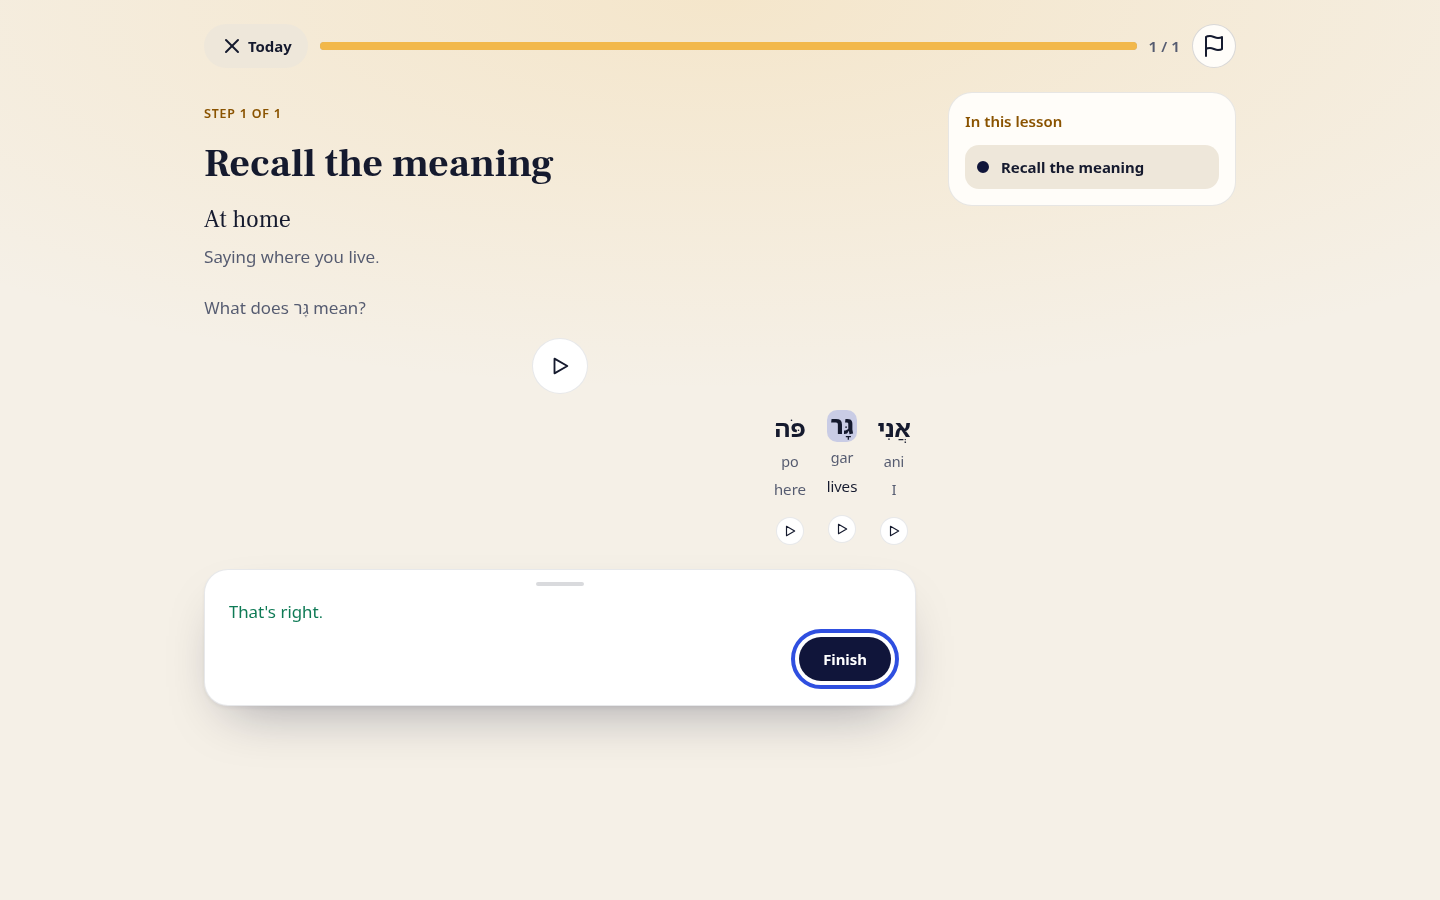
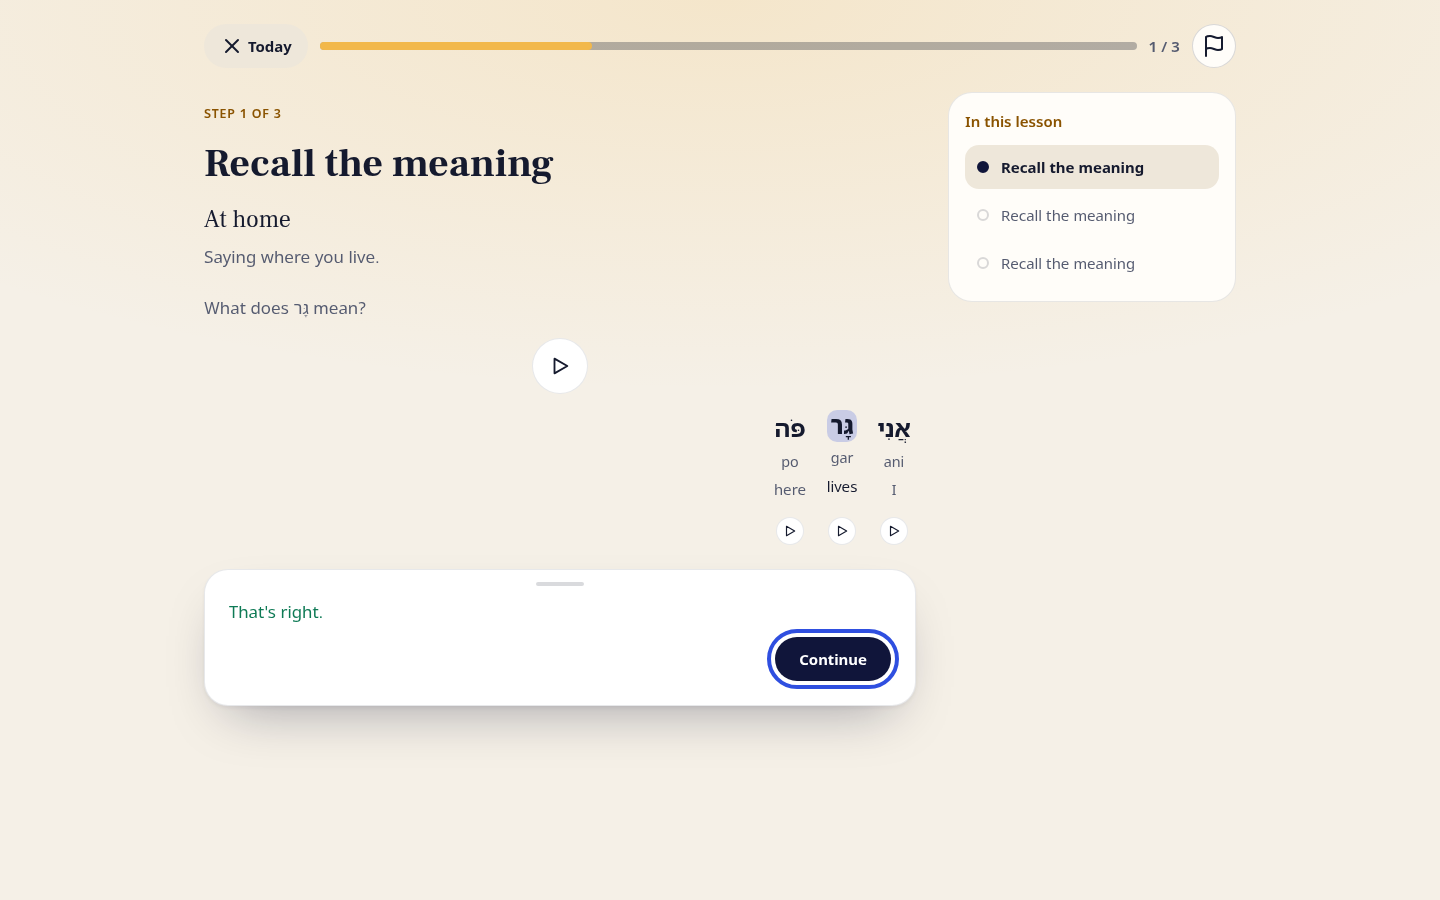
Keep helper glosses out of the distractors and align the word orbs.
A multi-word recall and a cloze were offering the line's other words as choices, so the answer could be found by elimination. Those lexemes are now dropped by id and by gloss, and the buttons fall back to other unit words and earlier lexicon words. The word orbs share one baseline.

Changed region(s): [[0.6562, 0.2178, 0.875, 0.3422], [0.4062, 0.0311, 0.7812, 0.0622], [0.5312, 0.6844, 0.5938, 0.7778]]

diff --git a/internal/web/static/css/base.css b/internal/web/static/css/base.css
@@ -1365,6 +1365,11 @@ mark.target .wb__he {
   align-items: flex-start;
   gap: var(--space-2);
 }
+/* The tested word's slot is shorter than a neighbour's transliteration plus
+   gloss, so a flex-start row lifts its orb. Stretch the line and pin each
+   clip to the end of its column. Every orb then shares one baseline. */
+.activity .word-blocks { align-items: stretch; }
+.activity-word > .clip { margin-block-start: auto; }
 .word-block {
   display: inline-flex;
   flex-direction: column;

diff --git a/internal/web/lesson_test.go b/internal/web/lesson_test.go
@@ -491,8 +491,9 @@ func TestLessonPromptDoesNotLeak(t *testing.T) {
 
 // A recall of several words still asks for one word: the first new word in
 // the line. The question names that word, the other words are shown with
-// their sound and meaning, and the buttons are word glosses. A following
-// recall of that word alone keeps the single-word question.
+// their sound and meaning, and the buttons are word glosses of words that
+// are not already on screen. A following recall of that word alone keeps
+// the single-word question.
 func TestMultiTokenRecallNamesTheTarget(t *testing.T) {
 	const (
 		ani = "אֲנִי"
@@ -597,9 +598,15 @@ func TestMultiTokenRecallNamesTheTarget(t *testing.T) {
 	if !strings.Contains(head, gar) {
 		t.Fatal("the tested word's Hebrew is hidden")
 	}
-	for _, gloss := range []string{">I<", ">lives<", ">here<"} {
-		if !strings.Contains(choices, gloss) {
-			t.Errorf("choice missing word gloss %s", gloss)
+	if !strings.Contains(choices, ">lives<") {
+		t.Errorf("choice missing the target gloss")
+	}
+	// The other words' glosses are on screen as help. Offering them as
+	// buttons would give the answer away. This unit has no other words,
+	// so the only button left is the target.
+	for _, gloss := range []string{">I<", ">here<"} {
+		if strings.Contains(choices, gloss) {
+			t.Errorf("choice equals a visible helper gloss %s", gloss)
 		}
 	}
 	if strings.Contains(choices, "I live here") || strings.Contains(choices, `value="`+gar+`"`) || strings.Contains(choices, `value="`+line+`"`) {
@@ -659,6 +666,163 @@ func TestMultiTokenRecallNamesTheTarget(t *testing.T) {
 	if strings.Contains(alone, ani) || strings.Contains(alone, po) {
 		t.Fatalf("single-word recall shows the rest of the line:\n%s", alone)
 	}
+}
+
+// A multi-word recall and a cloze both show the line's other words as help.
+// Those glosses, and a different lexeme with the same gloss, are not choices.
+// When the line used up the unit, the remaining buttons are other unit words
+// and earlier lexicon words.
+func TestChoicesSkipVisibleHelperGlosses(t *testing.T) {
+	const (
+		ani    = "אֲנִי"
+		anokhi = "אָנֹכִי"
+		gar    = "גָּר"
+		po     = "פֹּה"
+		ken    = "כֵּן"
+		sham   = "שָׁם"
+		mayim  = "מַיִם"
+	)
+	for _, typ := range []string{units.ActivityRecall, units.ActivityCloze} {
+		t.Run(typ, func(t *testing.T) {
+			now := time.Date(2026, 10, 18, 12, 0, 0, 0, time.UTC)
+			ctx := context.Background()
+			store, err := db.Open(ctx, filepath.Join(t.TempDir(), "hebrew.sqlite"), fixedClock(now))
+			if err != nil {
+				t.Fatal(err)
+			}
+			t.Cleanup(func() { _ = store.Close() })
+			brian, err := store.CreateUser(ctx, "brian@example.com", "sub-brian", auth.RoleLearner)
+			if err != nil {
+				t.Fatal(err)
+			}
+			sp := func(s string) *string { return &s }
+			saved, _, err := store.UpsertLexemes(ctx, []lexicon.Input{
+				{TextNFC: ani, Gloss: "I", Translit: sp("ani"), POS: sp("pron")},
+				{TextNFC: anokhi, Gloss: "I", Translit: sp("anokhi"), POS: sp("pron")},
+				{TextNFC: gar, Gloss: "lives", Translit: sp("gar"), POS: sp("verb")},
+				{TextNFC: po, Gloss: "here", Translit: sp("po"), POS: sp("adv")},
+				{TextNFC: ken, Gloss: "yes", Translit: sp("ken"), POS: sp("adv")},
+				{TextNFC: sham, Gloss: "there", Translit: sp("sham"), POS: sp("adv")},
+				{TextNFC: mayim, Gloss: "water", Translit: sp("mayim"), POS: sp("noun")},
+			})
+			if err != nil {
+				t.Fatal(err)
+			}
+			ids := map[string]int64{}
+			for _, row := range saved {
+				ids[row.TextNFC] = row.ID
+			}
+			glossByID := map[string]string{}
+			for text, id := range ids {
+				switch text {
+				case ani, anokhi:
+					glossByID[itoa(id)] = "I"
+				case gar:
+					glossByID[itoa(id)] = "lives"
+				case po:
+					glossByID[itoa(id)] = "here"
+				case ken:
+					glossByID[itoa(id)] = "yes"
+				case sham:
+					glossByID[itoa(id)] = "there"
+				case mayim:
+					glossByID[itoa(id)] = "water"
+				}
+			}
+			line := ani + " " + gar + " " + po
+			earlierID := putLesson(t, store, nil, units.Unit{
+				Title: "Earlier", Position: 0, NewWords: []string{sham, mayim},
+				Lessons: []units.Lesson{{Kind: units.KindLesson, Activities: []units.Activity{
+					{Type: units.ActivityRecall, Text: sham + " " + mayim},
+				}}},
+			}, "shared")
+			// anokhi shares the helper gloss "I" but is not in the line.
+			// ken is the only other word this unit can offer. One more
+			// button has to come from the earlier lexicon.
+			unitID := putLesson(t, store, nil, units.Unit{
+				Title: "At home", Situation: "Saying where you live.", Position: 1,
+				NewWords: []string{gar},
+				Lessons: []units.Lesson{{Kind: units.KindLesson, Activities: []units.Activity{
+					{Type: typ, Text: line},
+					{Type: units.ActivityRecall, Text: anokhi},
+					{Type: units.ActivityRecall, Text: ken},
+				}}},
+			}, "shared")
+			publish(t, store, earlierID, unitID)
+			when := db.FormatTime(now)
+			if _, err := store.ExecContext(ctx, `
+				INSERT INTO lesson_runs (user_id, unit_id, lesson_ix, started_at, finished_at, score)
+				VALUES (?, ?, 0, ?, ?, 1)`, brian.ID, earlierID, when, when); err != nil {
+				t.Fatal(err)
+			}
+
+			svc, err := auth.New(auth.Config{
+				PublicOrigin: "https://learn.example", Clock: fixedClock(now), Store: store,
+				AllowedEmails: []string{"brian@example.com"},
+			})
+			if err != nil {
+				t.Fatal(err)
+			}
+			h := NewOptions(nil, svc, Options{Store: store})
+			cookie := mintSession(t, store, brian.ID, "brian-csrf", now.Add(time.Hour))
+			body := getAuthed(t, h, cookie, "/lesson/"+itoa(unitID)+"/0")
+			ask := activityHTML(t, body)
+			head, choiceHTML, ok := strings.Cut(ask, `class="choices"`)
+			if !ok {
+				t.Fatalf("missing choices:\n%s", ask)
+			}
+			for _, help := range []string{ani, po} {
+				if !strings.Contains(head, help) {
+					t.Errorf("helper word %s is not on screen", help)
+				}
+			}
+			if typ == units.ActivityRecall {
+				for _, gloss := range []string{">I<", ">here<"} {
+					if !strings.Contains(head, gloss) {
+						t.Errorf("helper gloss %s is not visible", gloss)
+					}
+				}
+			}
+			helperGloss := map[string]bool{"i": true, "here": true}
+			for _, gloss := range []string{">I<", ">here<"} {
+				if strings.Contains(choiceHTML, gloss) {
+					t.Errorf("choice equals a visible helper gloss %s\n%s", gloss, choiceHTML)
+				}
+			}
+			got := choiceValues(t, ask)
+			if len(got) != 3 {
+				t.Fatalf("buttons = %d, want 3 (target, unit fallback, earlier fallback): %v\n%s", len(got), got, choiceHTML)
+			}
+			fallback := false
+			for _, id := range got {
+				gloss := glossByID[id]
+				if helperGloss[glossKey(gloss)] {
+					t.Errorf("choice %s gloss %q equals a visible helper gloss", id, gloss)
+				}
+				if id == itoa(ids[ani]) || id == itoa(ids[po]) || id == itoa(ids[anokhi]) {
+					t.Errorf("choice is a line word or the same gloss: %s %s", id, gloss)
+				}
+				if id == itoa(ids[sham]) || id == itoa(ids[mayim]) {
+					fallback = true
+				}
+			}
+			if !slicesContains(got, itoa(ids[gar])) || !slicesContains(got, itoa(ids[ken])) {
+				t.Fatalf("target or unit fallback missing: %v", got)
+			}
+			if !fallback {
+				t.Fatalf("earlier lexicon was not used to fill the buttons: %v", got)
+			}
+		})
+	}
+}
+
+func slicesContains(items []string, want string) bool {
+	for _, item := range items {
+		if item == want {
+			return true
+		}
+	}
+	return false
 }
 
 func TestClipScript(t *testing.T) {

diff --git a/internal/web/lesson.go b/internal/web/lesson.go
@@ -463,7 +463,7 @@ func (p player) step(page views.Page, lesson db.CourseLesson, run db.PlayerRun, 
 		Step:     run.ActivityIx,
 		Attempt:  0, // lesson_runs has no attempt counter
 		TargetID: target.ID,
-	}, hebrew, act.Type == units.ActivityCloze)
+	}, hebrew, act.Type == units.ActivityCloze, lineMateExclude(act, lex, target))
 	activity.Asking = len(activity.Choices) > 0
 	if !activity.Asking {
 		activity.Continue = continueLabel(run.ActivityIx, total)
@@ -714,12 +714,13 @@ const lessonChoiceButtons = 3
 // lessonChoices builds the buttons for a graded ask. recall, listen_pick,
 // produce, and cloze all use it. A checkpoint lesson is a sequence of those
 // activities, so it has no choice builder of its own. Order and membership
-// come from choices.Pick. The button value stays the lexeme id.
-func lessonChoices(unit, earlier []db.LexemeView, target db.LexemeView, seed choices.ChoiceSeed, hebrew, translit bool) []views.Choice {
+// come from choices.Pick. The button value stays the lexeme id. block drops
+// line-mates the learner can already see.
+func lessonChoices(unit, earlier []db.LexemeView, target db.LexemeView, seed choices.ChoiceSeed, hebrew, translit bool, block choiceExclude) []views.Choice {
 	if target.ID == 0 {
 		return nil
 	}
-	picked := choices.Pick(seed, choiceLexeme(target, false), choicePool(unit, earlier, target, hebrew), lessonChoiceButtons)
+	picked := choices.Pick(seed, choiceLexeme(target, false), choicePool(unit, earlier, target, hebrew, block), lessonChoiceButtons)
 	byID := make(map[int64]db.LexemeView, len(unit)+len(earlier)+1)
 	byID[target.ID] = target
 	for _, lex := range unit {
@@ -751,23 +752,90 @@ func lessonChoices(unit, earlier []db.LexemeView, target db.LexemeView, seed cho
 	return out
 }
 
+// choiceExclude is the set of distractors a learner could dismiss because the
+// line already shows them. ids are the other lexemes in the line. glosses are
+// those words' meanings, folded, so a different spelling with the same gloss
+// is excluded too. Matching the token text alone does not catch that.
+type choiceExclude struct {
+	ids     map[int64]bool
+	glosses map[string]bool
+}
+
 // choicePool is the unit, then earlier units. An English button needs a gloss,
 // so a blank gloss is left out of that pool. The target is kept either way.
-func choicePool(unit, earlier []db.LexemeView, target db.LexemeView, hebrew bool) []choices.Lexeme {
+// A blocked line-mate is left out of both tiers. What remains is the fallback:
+// other words from this unit, then earlier lexicon words. The line's own
+// words are not put back.
+func choicePool(unit, earlier []db.LexemeView, target db.LexemeView, hebrew bool, block choiceExclude) []choices.Lexeme {
 	pool := make([]choices.Lexeme, 0, len(unit)+len(earlier))
 	for _, lex := range unit {
+		if choiceBlocked(lex, target, block) {
+			continue
+		}
 		if !hebrew && lex.ID != target.ID && strings.TrimSpace(lex.Gloss) == "" {
 			continue
 		}
 		pool = append(pool, choiceLexeme(lex, false))
 	}
 	for _, lex := range earlier {
+		if choiceBlocked(lex, target, block) {
+			continue
+		}
 		if !hebrew && strings.TrimSpace(lex.Gloss) == "" {
 			continue
 		}
 		pool = append(pool, choiceLexeme(lex, true))
 	}
 	return pool
+}
+
+func choiceBlocked(lex, target db.LexemeView, block choiceExclude) bool {
+	if lex.ID == 0 || lex.ID == target.ID {
+		return false
+	}
+	if block.ids[lex.ID] {
+		return true
+	}
+	key := glossKey(lex.Gloss)
+	return key != "" && block.glosses[key]
+}
+
+// lineMateExclude builds the block for an ask that shows the line's other
+// words as help. A multi-word recall shows their gloss. A cloze shows the
+// other words, and its choices are words, so those lexemes and any word with
+// their gloss would give the gap away. A single-word recall, listen-and-pick,
+// and produce hide that help, so they do not block.
+func lineMateExclude(act units.Activity, lex map[string]db.LexemeView, target db.LexemeView) choiceExclude {
+	if !showsLineHelp(act, lex) {
+		return choiceExclude{}
+	}
+	block := choiceExclude{ids: map[int64]bool{}, glosses: map[string]bool{}}
+	for _, tok := range actTokens(act) {
+		view, ok := lex[tok]
+		if !ok || view.ID == 0 || view.ID == target.ID || block.ids[view.ID] {
+			continue
+		}
+		block.ids[view.ID] = true
+		if key := glossKey(view.Gloss); key != "" {
+			block.glosses[key] = true
+		}
+	}
+	return block
+}
+
+func showsLineHelp(act units.Activity, lex map[string]db.LexemeView) bool {
+	switch act.Type {
+	case units.ActivityRecall:
+		return lexemeTokenCount(act, lex) > 1
+	case units.ActivityCloze:
+		return true
+	default:
+		return false
+	}
+}
+
+func glossKey(gloss string) string {
+	return strings.ToLower(strings.TrimSpace(gloss))
 }
 
 func choiceLexeme(view db.LexemeView, earlier bool) choices.Lexeme {

diff --git a/internal/web/choices_test.go b/internal/web/choices_test.go
@@ -28,7 +28,7 @@ func TestLessonChoicesSkipEmptyEnglishGloss(t *testing.T) {
 	unit := []db.LexemeView{target, blank, other, verb}
 	seed := choices.ChoiceSeed{RunID: 1, Step: 0, Attempt: 0, TargetID: target.ID}
 
-	english := lessonChoices(unit, nil, target, seed, false, false)
+	english := lessonChoices(unit, nil, target, seed, false, false, choiceExclude{})
 	if choiceHas(english, "2") || !choiceHas(english, "3") || !choiceHas(english, "4") || !choiceHas(english, "1") {
 		t.Fatalf("english buttons = %+v", english)
 	}
@@ -38,7 +38,7 @@ func TestLessonChoicesSkipEmptyEnglishGloss(t *testing.T) {
 		}
 	}
 
-	hebrew := lessonChoices(unit, nil, target, seed, true, true)
+	hebrew := lessonChoices(unit, nil, target, seed, true, true, choiceExclude{})
 	if !choiceHas(hebrew, "2") || !choiceHas(hebrew, "3") || choiceHas(hebrew, "4") {
 		t.Fatalf("hebrew buttons = %+v", hebrew)
 	}
@@ -176,7 +176,7 @@ func TestLessonChoicesUseEarlierLexemes(t *testing.T) {
 	runID := mustRunID(t, again)
 	want := buttonIDs(choices.Pick(choices.ChoiceSeed{
 		RunID: runID, Step: 0, Attempt: 0, TargetID: target.ID,
-	}, choiceLexeme(target, false), choicePool(pool, earlier, target, false), lessonChoiceButtons))
+	}, choiceLexeme(target, false), choicePool(pool, earlier, target, false, choiceExclude{}), lessonChoiceButtons))
 	if !slices.Equal(got, want) {
 		t.Fatalf("buttons %v want %v", got, want)
 	}
@@ -250,7 +250,7 @@ func playChoiceSteps(t *testing.T, fx lessonFixture, path string, acts []units.A
 		hebrew := act.Type == units.ActivityProduce || act.Type == units.ActivityCloze
 		want := buttonIDs(choices.Pick(choices.ChoiceSeed{
 			RunID: runID, Step: step, Attempt: 0, TargetID: target.ID,
-		}, choiceLexeme(target, false), choicePool(pool, earlier, target, hebrew), lessonChoiceButtons))
+		}, choiceLexeme(target, false), choicePool(pool, earlier, target, hebrew, choiceExclude{}), lessonChoiceButtons))
 		if !slices.Equal(got, want) {
 			t.Fatalf("%s step %d %s buttons %v want %v", path, step, act.Type, got, want)
 		}
